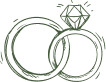
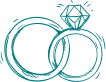
Change theme/color

diff --git a/components/Header.tsx b/components/Header.tsx
@@ -31,24 +31,24 @@ const Header = () => {
           className="flex font-heading name-wrapper ml5 flex-col-bm items-baseline justify-center-mb text-center-mb"
         >
           <div className="name font-inherit color-3 letters-left">
-            <p>Anh &nbsp;Tuan</p>
+            <p className='text-shadow'>Anh &nbsp;Tuan</p>
           </div>
           <div>
             <img
               src="/images/ampersand.png"
               alt=""
-              className="ampersand color-3"
+              className="ampersand color-3 text-shadow"
             />
           </div>
           <div className="name font-inherit color-3 letters-right">
-            <p>Vu Quynh</p>
+            <p className='text-shadow'>Vu Quynh</p>
           </div>
         </m.div>
         <m.div
           variants={fadeIn('up', 'tween', 0, 1)}
           className="event-time font-para color-3 text-center inner-col mx-auto"
         >
-          <p>12 . 08 . 2023</p>
+          <p className='text-shadow'>12 . 08 . 2023</p>
         </m.div>
       </div>
     </m.section>

diff --git a/styles/globals.css b/styles/globals.css
@@ -9,9 +9,9 @@
   --font-1: 'Absolute Beauty Bold';
   --font-2: 'Lexend Deca', sans-serif;
   --font-3: 'Oooh Baby', cursive;
-  --color-1: #465a3d;
+  --color-1: #007a81;
   --color-2: #f0e2d3;
-  --color-3: #FF8B0F;
+  --color-3: #007a81;
 }
 
 * {
@@ -29,6 +29,10 @@ body {
   padding: 0;
   margin: 0;
   box-sizing: border-box;
+}
+
+.text-shadow {
+  text-shadow: 1px 1px 3px white;
 }
 
 .font-para {
@@ -465,7 +469,7 @@ body {
   padding-bottom: 180px;
 }
 .t16-bio .lower-part {
-  background-color: #445a3d;
+  background-color: #007a81;
   background-image: url('/images/theme/paper-texture.jpg'),
     url('/images/theme/forest-stroke-bg.png');
   background-blend-mode: multiply, normal;
@@ -1156,7 +1160,7 @@ input[type='radio']:checked:before {
     padding: 0 20px;
   }
   .t16-bio .lower-part {
-    background-color: #445a3d;
+    background-color: #007a81;
     background-image: unset;
     background-position: center;
   }

diff --git a/components/Story.tsx b/components/Story.tsx
@@ -9,7 +9,7 @@ import Image from 'next/image'
 import story_1 from '../public/images/story-1.jpg'
 import story_2 from '../public/images/story-2.jpg'
 import story_3 from '../public/images/story-3.jpg'
-import forest_bg from '../public/images/theme/forest-bg.jpg'
+import forest_bg from '../public/images/theme/forest-bg-2.jpg'
 
 const Story = () => {
   return (

diff --git a/components/Loading/LoadingDefault.css b/components/Loading/LoadingDefault.css
@@ -16,7 +16,7 @@
   width: 16px;
   height: 16px;
   border-radius: 50%;
-  background: #445a3d;
+  background: #007a81;
   animation: lds-grid 1.2s linear infinite;
 }
 .lds-grid div:nth-child(1) {
